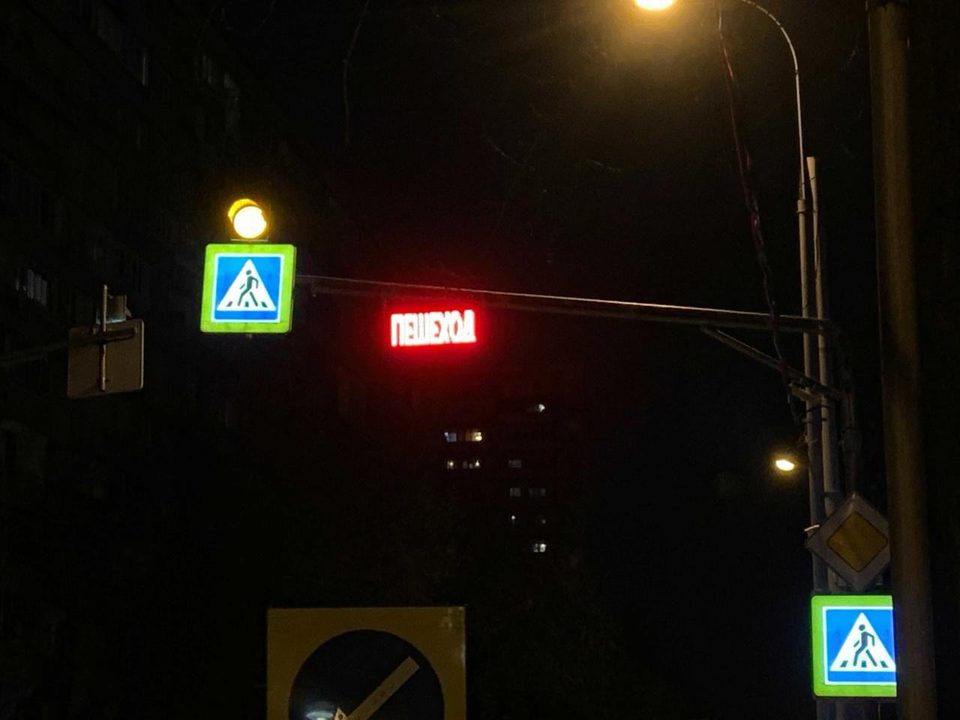
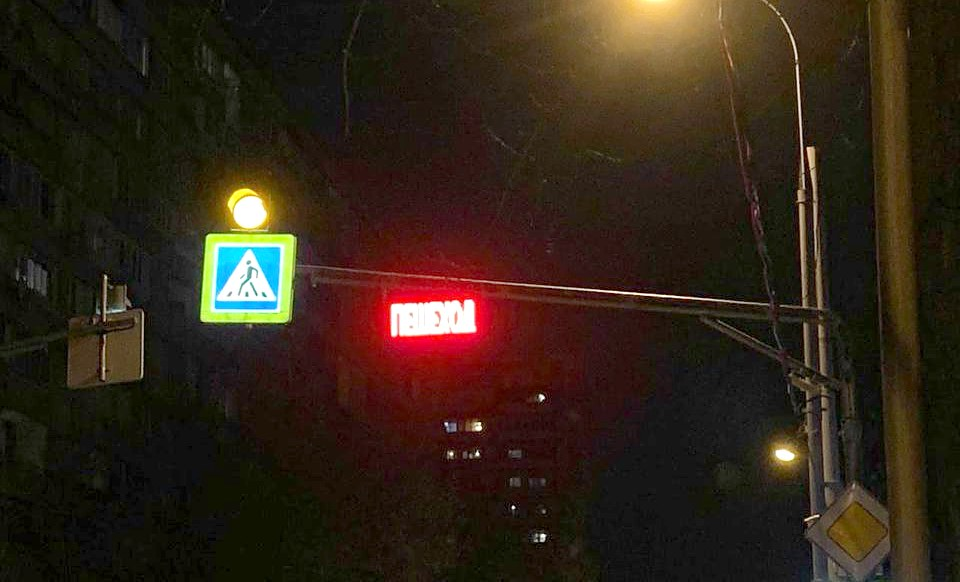
Доделаны оставшиеся замечания Александра
- iCrossWalk: стоимость АПК «от 0,7 млн до 2 млн»; фото первого
  экрана обрезано справа — автобуса почти не видно, табло, знаки
  и пешеход в кадре.
- iCrossWalk: новый блок «Программное обеспечение „Smart детектор“» —
  снимок экрана детектора и 4 функции по слайду 6 презентации.
- Примеры реализации: фото Омска кадрировано и высветлено, убран
  обрезанный посторонний знак снизу.
- README: описаны новые картинки и блоки.

Claude-Session: https://claude.ai/code/session_01NjS5aHjgEVfNeoDvjUhW5N

diff --git a/icrosswalk.html b/icrosswalk.html
@@ -4,13 +4,13 @@
   <meta charset="utf-8">
   <meta name="viewport" content="width=device-width, initial-scale=1">
   <title>Система iCrossWalk — состав и стоимость | SmartC</title>
-  <meta name="description" content="iCrossWalk: детектор пешеходов, ТС и СИМ, проекция разметки 1.14.1, табло «ПЕШЕХОД», светодиодный знак 5.19.1. Стоимость АПК от 1,2 до 2 млн ₽ в зависимости от комплектации.">
+  <meta name="description" content="iCrossWalk: детектор пешеходов, ТС и СИМ, проекция разметки 1.14.1, табло «ПЕШЕХОД», светодиодный знак 5.19.1. Стоимость АПК от 0,7 до 2 млн ₽ в зависимости от комплектации.">
   <link rel="canonical" href="https://www.icrosswalk.ru/icrosswalk.html">
   <meta property="og:type" content="website">
   <meta property="og:locale" content="ru_RU">
   <meta property="og:site_name" content="SmartC iCrossWalk">
   <meta property="og:title" content="Система iCrossWalk — состав и стоимость | SmartC">
-  <meta property="og:description" content="iCrossWalk: детектор пешеходов, ТС и СИМ, проекция разметки 1.14.1, табло «ПЕШЕХОД», светодиодный знак 5.19.1. Стоимость АПК от 1,2 до 2 млн ₽ в зависимости от комплектации.">
+  <meta property="og:description" content="iCrossWalk: детектор пешеходов, ТС и СИМ, проекция разметки 1.14.1, табло «ПЕШЕХОД», светодиодный знак 5.19.1. Стоимость АПК от 0,7 до 2 млн ₽ в зависимости от комплектации.">
   <meta property="og:url" content="https://www.icrosswalk.ru/icrosswalk.html">
   <meta property="og:image" content="https://www.icrosswalk.ru/assets/img/og-image.jpg">
   <meta name="theme-color" content="#0c1c22">
@@ -18,7 +18,7 @@
   <link rel="icon" type="image/png" sizes="32x32" href="assets/img/favicon-32.png">
   <link rel="apple-touch-icon" href="assets/img/apple-touch-icon.png">
   <link rel="preload" href="assets/fonts/manrope-cyrillic-wght-normal.woff2" as="font" type="font/woff2" crossorigin>
-  <link rel="stylesheet" href="assets/css/style.css?v=202611031200">
+  <link rel="stylesheet" href="assets/css/style.css?v=202611031330">
 </head>
 <body>
 <header class="site-header">
@@ -58,7 +58,7 @@
       </ul>
       <div class="product-hero__actions">
         <a class="btn btn--lime" href="files/SmartC-iCrossWalk-2025.pdf" download>Скачать презентацию <svg viewBox="0 0 18 18" fill="none" stroke="currentColor" stroke-width="1.6" stroke-linecap="round" stroke-linejoin="round" aria-hidden="true"><path d="M9 2.5v9.5M4.8 7.8 9 12l4.2-4.2M3 15.5h12"/></svg></a>
-        <p class="price-tag price-tag--glass">Стоимость АПК от 1,2 млн до 2 млн <br class="br-d">в зависимости от комплектации</p>
+        <p class="price-tag price-tag--glass">Стоимость АПК от 0,7 млн до 2 млн <br class="br-d">в зависимости от комплектации</p>
       </div>
     </section>
 
@@ -103,6 +103,20 @@
       </div>
       </div>
     </section>
+
+    <section class="software" aria-labelledby="software-title">
+      <h2 class="h2 software__title" id="software-title">Программное обеспечение <span class="hl">«Smart детектор»</span></h2>
+      <p class="software__lead">Включено в реестр российского программного обеспечения, № 15277</p>
+      <div class="software__body">
+        <figure class="software__media"><img src="assets/img/smart-detector.jpg" width="970" height="677" loading="lazy" alt="Экран «Smart детектор»: распознанный пешеход и автомобиль на пешеходном переходе"></figure>
+        <ul class="software__list">
+          <li class="software-item"><h3 class="software-item__title">Подсчёт интенсивности трафика</h3><p class="software-item__text">Подсчёт пешеходов и автомобилей, проходящих и проезжающих через переход</p></li>
+          <li class="software-item"><h3 class="software-item__title">Интеграция с существующими системами</h3><p class="software-item__text">Передача видеопотока и аналитических данных в «Безопасный город», ИТС, «Умный город» и другие системы</p></li>
+          <li class="software-item"><h3 class="software-item__title">Фиксация правонарушений</h3><p class="software-item__text">Непредоставление водителем преимущества пешеходу, нарушения водителей СИМ: пересечение перехода, езда вдвоём</p></li>
+          <li class="software-item"><h3 class="software-item__title">Запись данных в архив</h3><p class="software-item__text">Статистика и видеозаписи хранятся на удалённом сервере с разбивкой по времени и дням</p></li>
+        </ul>
+      </div>
+    </section>
   </div>
   </section>
   <div class="page-end" style="height:102px"></div>
@@ -130,6 +144,6 @@
     </div>
   </div>
 </footer>
-<script src="assets/js/main.js?v=202611031200" defer></script>
+<script src="assets/js/main.js?v=202611031330" defer></script>
 </body>
 </html>

diff --git a/assets/css/style.css b/assets/css/style.css
@@ -876,11 +876,12 @@ main { display: block; }
 .product-hero {
   position: relative;
   margin-top: 31px;
-  min-height: 708px;
+  min-height: 780px;
   padding: 65px 40px 63px 70px;
   border-radius: 16px;
   overflow: hidden;
-  background: #2a3a48 url("../img/hero-icrosswalk.jpg") 78% 26% / 102.8% auto no-repeat;
+  /* правая часть фото с автобусом обрезана в самом файле: в кадре табло, знаки и пешеход */
+  background: #2a3a48 url("../img/hero-icrosswalk.jpg") 50% 18% / cover no-repeat;
   box-shadow: 0 24px 60px rgba(0, 0, 0, .32);
   color: #fff;
   display: flex;
@@ -974,6 +975,23 @@ main { display: block; }
   font-size: 15px;
   line-height: 20px;
 }
+
+/* ПО «Smart детектор» */
+.software { margin-top: 93px; }
+.software__title { margin-left: 2px; }
+.software__lead { margin: 12px 0 0 2px; font-size: 18px; line-height: 25px; color: rgba(0, 0, 0, .55); }
+.software__body {
+  display: grid;
+  grid-template-columns: minmax(0, 646fr) minmax(0, 657fr);
+  gap: 19px;
+  margin-top: 32px;
+}
+.software__media { margin: 0; border-radius: 8px; overflow: hidden; background: #1b1f22; box-shadow: var(--shadow-sm); }
+.software__media img { width: 100%; height: 100%; object-fit: cover; }
+.software__list { display: grid; grid-template-columns: 1fr 1fr; gap: 16px; list-style: none; }
+.software-item { padding: 20px 22px 22px; border-radius: 8px; background: #fff; box-shadow: var(--shadow-sm); }
+.software-item__title { font-size: 18px; line-height: 25px; font-weight: 500; }
+.software-item__text { margin-top: 6px; font-size: 15px; line-height: 20px; }
 .comp-card__icon { flex: none; width: auto; }
 .composition__col:first-child .comp-card:nth-child(1) { min-height: 144px; }
 .composition__col:first-child .comp-card:nth-child(2) { min-height: 94px; }
@@ -1409,7 +1427,7 @@ main { display: block; }
   .footer__col--vk { align-self: center; }
   .footer__col--qr { justify-self: start; }
 
-  .composition__grid { grid-template-columns: 1fr; }
+  .composition__grid, .software__body { grid-template-columns: 1fr; }
   .comp-card { min-height: 0 !important; }
 
   .docs-list { grid-template-columns: 1fr; gap: 13px; }
@@ -1525,6 +1543,10 @@ main { display: block; }
   .composition { margin-top: 56px; }
   .comp-card { flex-direction: column-reverse; align-items: flex-start; padding: 20px; }
   .comp-card__icon { max-width: 140px; }
+  .software { margin-top: 56px; }
+  .software__lead { font-size: 16px; line-height: 1.35; }
+  .software__list { grid-template-columns: 1fr; gap: 12px; }
+  .software-item { padding: 18px 20px 20px; }
 
   .examples { padding-top: 32px; }
   .examples__grid { grid-template-columns: 1fr; row-gap: 20px; }

diff --git a/index.html b/index.html
@@ -18,7 +18,7 @@
   <link rel="icon" type="image/png" sizes="32x32" href="assets/img/favicon-32.png">
   <link rel="apple-touch-icon" href="assets/img/apple-touch-icon.png">
   <link rel="preload" href="assets/fonts/manrope-cyrillic-wght-normal.woff2" as="font" type="font/woff2" crossorigin>
-  <link rel="stylesheet" href="assets/css/style.css?v=202611031200">
+  <link rel="stylesheet" href="assets/css/style.css?v=202611031330">
 </head>
 <body class="home">
 <header class="site-header">
@@ -251,6 +251,6 @@
     </div>
   </div>
 </footer>
-<script src="assets/js/main.js?v=202611031200" defer></script>
+<script src="assets/js/main.js?v=202611031330" defer></script>
 </body>
 </html>

diff --git a/404.html b/404.html
@@ -18,7 +18,7 @@
   <link rel="icon" type="image/png" sizes="32x32" href="assets/img/favicon-32.png">
   <link rel="apple-touch-icon" href="assets/img/apple-touch-icon.png">
   <link rel="preload" href="assets/fonts/manrope-cyrillic-wght-normal.woff2" as="font" type="font/woff2" crossorigin>
-  <link rel="stylesheet" href="assets/css/style.css?v=202611031200">
+  <link rel="stylesheet" href="assets/css/style.css?v=202611031330">
 </head>
 <body class="">
 <header class="site-header">
@@ -75,6 +75,6 @@
     </div>
   </div>
 </footer>
-<script src="assets/js/main.js?v=202611031200" defer></script>
+<script src="assets/js/main.js?v=202611031330" defer></script>
 </body>
 </html>

diff --git a/about.html b/about.html
@@ -18,7 +18,7 @@
   <link rel="icon" type="image/png" sizes="32x32" href="assets/img/favicon-32.png">
   <link rel="apple-touch-icon" href="assets/img/apple-touch-icon.png">
   <link rel="preload" href="assets/fonts/manrope-cyrillic-wght-normal.woff2" as="font" type="font/woff2" crossorigin>
-  <link rel="stylesheet" href="assets/css/style.css?v=202611031200">
+  <link rel="stylesheet" href="assets/css/style.css?v=202611031330">
 </head>
 <body>
 <header class="site-header">
@@ -133,6 +133,6 @@
     </div>
   </div>
 </footer>
-<script src="assets/js/main.js?v=202611031200" defer></script>
+<script src="assets/js/main.js?v=202611031330" defer></script>
 </body>
 </html>

diff --git a/documents.html b/documents.html
@@ -18,7 +18,7 @@
   <link rel="icon" type="image/png" sizes="32x32" href="assets/img/favicon-32.png">
   <link rel="apple-touch-icon" href="assets/img/apple-touch-icon.png">
   <link rel="preload" href="assets/fonts/manrope-cyrillic-wght-normal.woff2" as="font" type="font/woff2" crossorigin>
-  <link rel="stylesheet" href="assets/css/style.css?v=202611031200">
+  <link rel="stylesheet" href="assets/css/style.css?v=202611031330">
 </head>
 <body>
 <header class="site-header">
@@ -108,6 +108,6 @@
     </div>
   </div>
 </footer>
-<script src="assets/js/main.js?v=202611031200" defer></script>
+<script src="assets/js/main.js?v=202611031330" defer></script>
 </body>
 </html>

diff --git a/examples.html b/examples.html
@@ -18,7 +18,7 @@
   <link rel="icon" type="image/png" sizes="32x32" href="assets/img/favicon-32.png">
   <link rel="apple-touch-icon" href="assets/img/apple-touch-icon.png">
   <link rel="preload" href="assets/fonts/manrope-cyrillic-wght-normal.woff2" as="font" type="font/woff2" crossorigin>
-  <link rel="stylesheet" href="assets/css/style.css?v=202611031200">
+  <link rel="stylesheet" href="assets/css/style.css?v=202611031330">
 </head>
 <body>
 <header class="site-header">
@@ -208,6 +208,6 @@
     </div>
   </div>
 </footer>
-<script src="assets/js/main.js?v=202611031200" defer></script>
+<script src="assets/js/main.js?v=202611031330" defer></script>
 </body>
 </html>

diff --git a/cooperation.html b/cooperation.html
@@ -18,7 +18,7 @@
   <link rel="icon" type="image/png" sizes="32x32" href="assets/img/favicon-32.png">
   <link rel="apple-touch-icon" href="assets/img/apple-touch-icon.png">
   <link rel="preload" href="assets/fonts/manrope-cyrillic-wght-normal.woff2" as="font" type="font/woff2" crossorigin>
-  <link rel="stylesheet" href="assets/css/style.css?v=202611031200">
+  <link rel="stylesheet" href="assets/css/style.css?v=202611031330">
 </head>
 <body>
 <header class="site-header">
@@ -94,6 +94,6 @@
     </div>
   </div>
 </footer>
-<script src="assets/js/main.js?v=202611031200" defer></script>
+<script src="assets/js/main.js?v=202611031330" defer></script>
 </body>
 </html>

diff --git a/founder.html b/founder.html
@@ -18,7 +18,7 @@
   <link rel="icon" type="image/png" sizes="32x32" href="assets/img/favicon-32.png">
   <link rel="apple-touch-icon" href="assets/img/apple-touch-icon.png">
   <link rel="preload" href="assets/fonts/manrope-cyrillic-wght-normal.woff2" as="font" type="font/woff2" crossorigin>
-  <link rel="stylesheet" href="assets/css/style.css?v=202611031200">
+  <link rel="stylesheet" href="assets/css/style.css?v=202611031330">
 </head>
 <body>
 <header class="site-header">
@@ -99,6 +99,6 @@
     </div>
   </div>
 </footer>
-<script src="assets/js/main.js?v=202611031200" defer></script>
+<script src="assets/js/main.js?v=202611031330" defer></script>
 </body>
 </html>

diff --git a/spin-perimetr.html b/spin-perimetr.html
@@ -18,7 +18,7 @@
   <link rel="icon" type="image/png" sizes="32x32" href="assets/img/favicon-32.png">
   <link rel="apple-touch-icon" href="assets/img/apple-touch-icon.png">
   <link rel="preload" href="assets/fonts/manrope-cyrillic-wght-normal.woff2" as="font" type="font/woff2" crossorigin>
-  <link rel="stylesheet" href="assets/css/style.css?v=202611031200">
+  <link rel="stylesheet" href="assets/css/style.css?v=202611031330">
 </head>
 <body>
 <header class="site-header">
@@ -91,6 +91,6 @@
     </div>
   </div>
 </footer>
-<script src="assets/js/main.js?v=202611031200" defer></script>
+<script src="assets/js/main.js?v=202611031330" defer></script>
 </body>
 </html>

diff --git a/README.md b/README.md
@@ -25,7 +25,7 @@ python3 -m http.server 8080
 ```
 index.html            Главная: первый экран, цели + карта регионов, «Непредоставление преимущества пешеходу», форма заявки (#request)
 about.html            О нас
-icrosswalk.html       Система iCrossWalk (схема работы и состав системы)
+icrosswalk.html       Система iCrossWalk (схема работы, состав системы, ПО «Smart детектор»)
 examples.html         Примеры реализации и карта регионов (копия карты с главной)
 spin-perimetr.html    СПИН Периметр
 cooperation.html      Условия сотрудничества и дорожная карта внедрения
@@ -111,7 +111,10 @@ server {
   помещаться в экран.
 - Карта регионов стоит и на главной, и в «Примерах реализации» — при изменении цифр правьте обе страницы.
 - На фото «СПИН Периметр» закрашены автомобильные номера.
+- Фото первого экрана iCrossWalk (`hero-icrosswalk.jpg`) обрезано справа — убран автобус, табло и знаки остались.
+- Снимок экрана «Smart детектор» (`smart-detector.jpg`) взят из презентации `files/SmartC-iCrossWalk-2025.pdf`.
 - Подписи примеров реализации: Москва, Серпухов, Казань, Тула, Омск, Калуга (по указанию заказчика).
+  Фото Омска кадрировано и высветлено — при появлении снимка получше просто замените `example-omsk.jpg`.
 - На странице «Документация» в макете не было подвала — добавлен общий подвал, как на остальных страницах.
 - Карта регионов сделана HTML-вёрсткой (а не картинкой) — она чёткая на любом экране;
   на телефоне карта прокручивается горизонтально. Данные по регионам — в `index.html`
